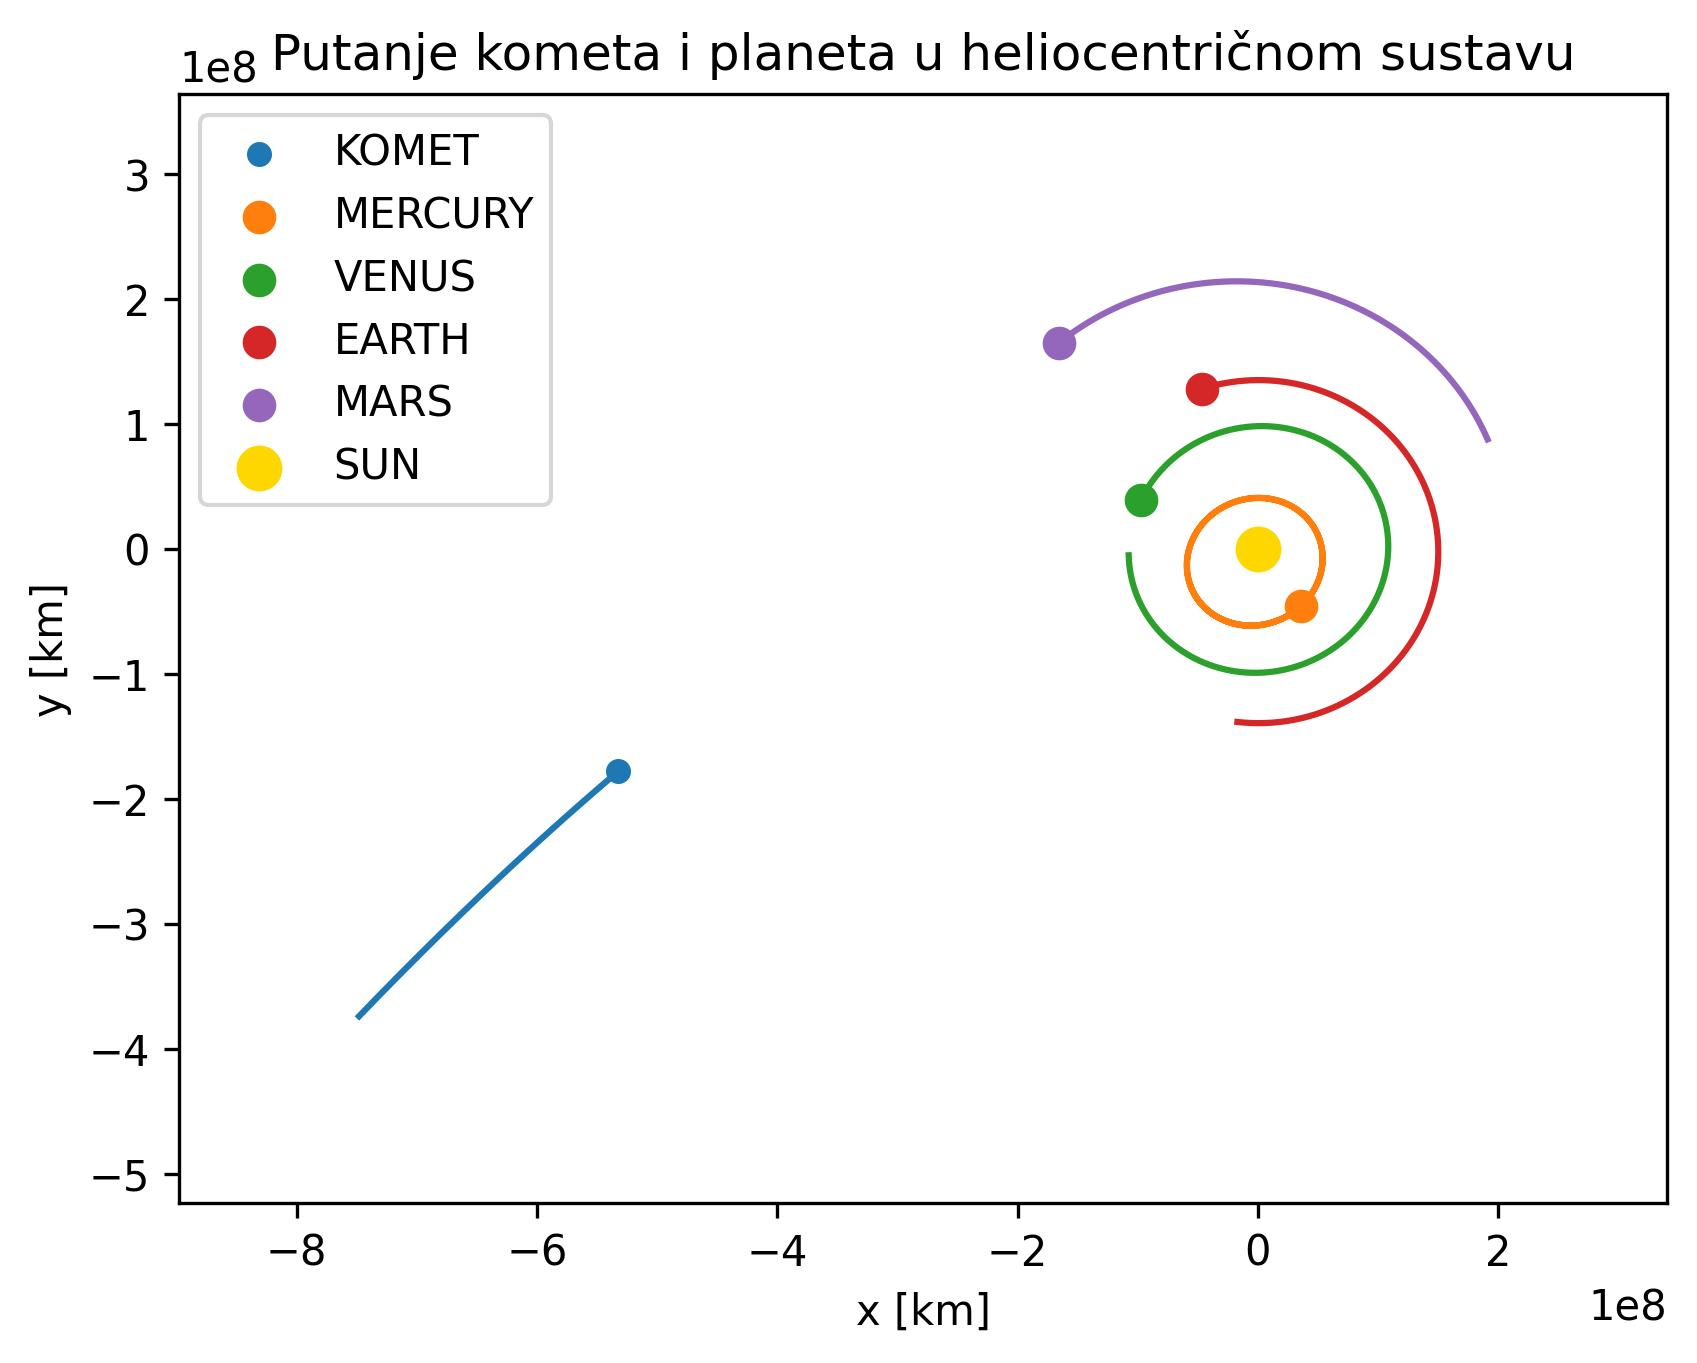
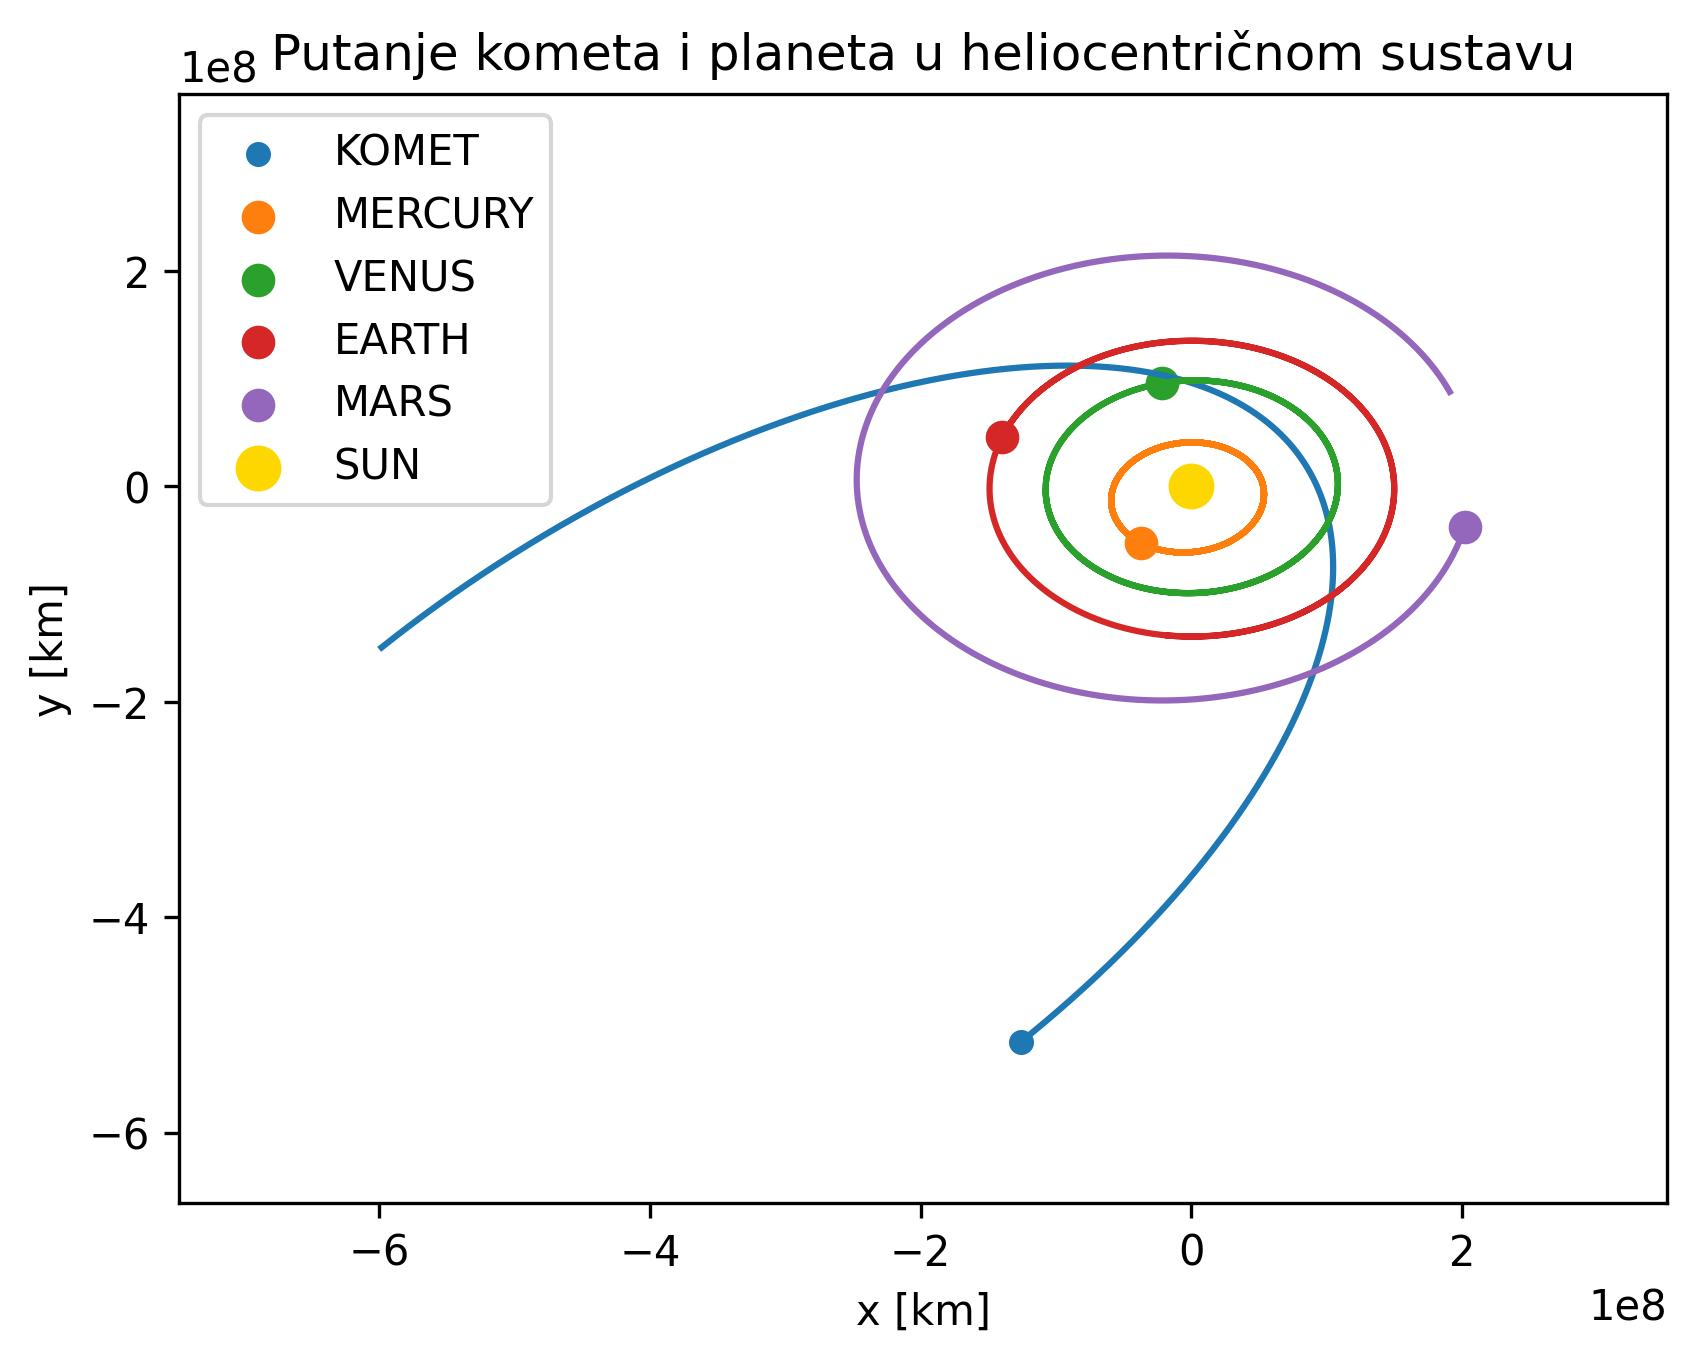
Seminar

diff --git a/Seminar/seminar_1.py b/Seminar/seminar_1.py
@@ -20,16 +20,16 @@ promatrač = "EARTH"
 t0 = sp.str2et("15 JUNE 2026 00:00:00 TDB")
 
 ### DEFINIRANJE VREMENSKOG INTERVALA ###
-dt = 60*60 
-N = 5000
+dt = 60*60*2
+N = 7500
 t_list = np.arange(t0, t0+N*dt, dt)
 
 ### DEFINIRANJE ASTRONOMSKE JEDINICE ###
 AU = 149597870.7   #(u km)
 
 ### DEFINIRANJE KOMETA ###
-x0_komet =  -5*AU    #(u km)
-y0_komet =  -2.5*AU  #(u km)
+x0_komet =  -4*AU    #(u km)
+y0_komet =  -1*AU  #(u km)
 
 vx0_komet = 10       #(u km/s)
 vy0_komet = 10       #(u km/s)
